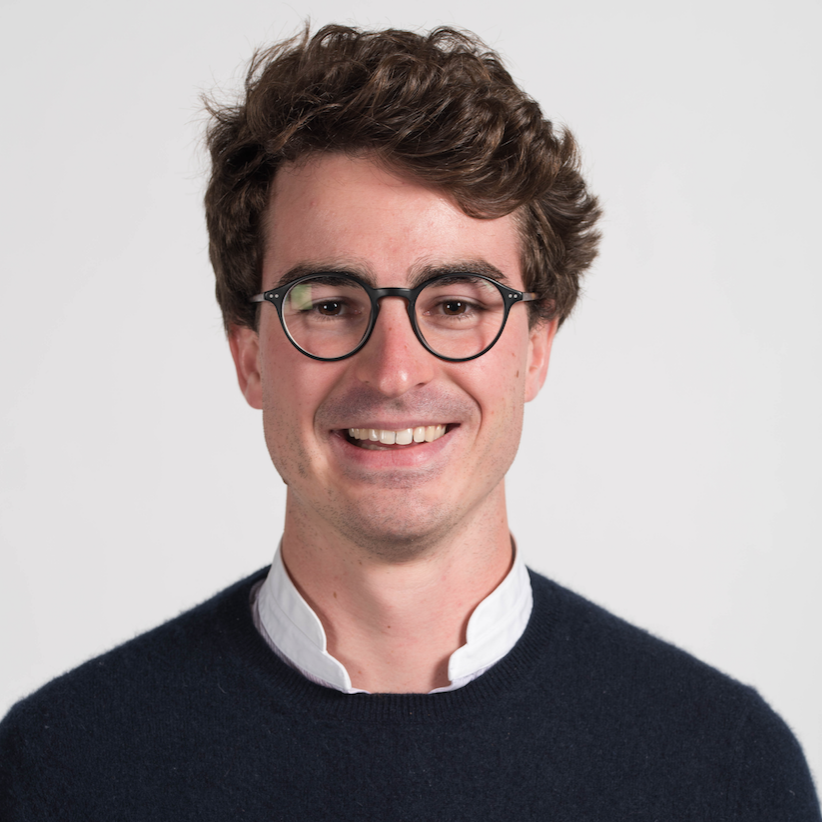
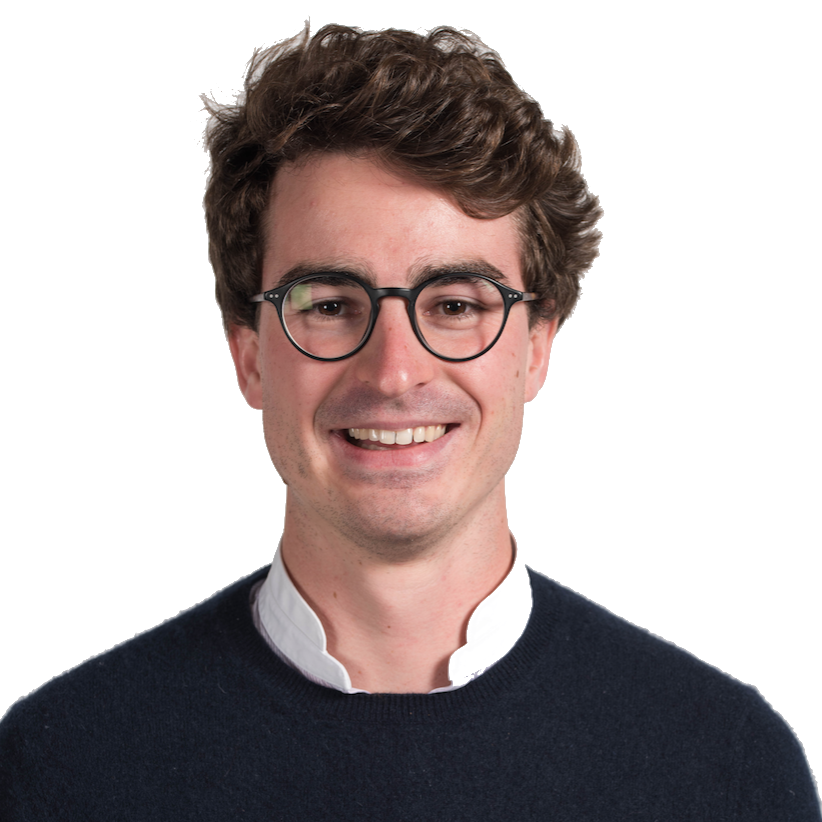
slogan accueil + photos équipe

diff --git a/l-equipe.html b/l-equipe.html
@@ -145,7 +145,7 @@
     <div class="container text-center">
       <div class="row">
         <div class="col-sm-6">
-          <img class="team" src="images/content/team/martin_menez_2.png" alt="Martin Menez" width="200">
+          <img class="team" src="images/content/team/martin_menez.png" alt="Martin Menez" width="200">
         <div class="small-spacer"></div>
           <a href="https://www.linkedin.com/in/martinmenez"><i class="fa fa-linkedin" aria-hidden="true"></i> Martin Menez</a>
         <div class="small-spacer"></div>
@@ -160,7 +160,7 @@
         <div class="small-spacer"></div>
         </div>
         <div class="col-sm-6">
-          <img class="team" src="images/content/team/marion_albertini_2.png" alt="Marion Albertini" width="200">
+          <img class="team" src="images/content/team/marion_albertini.png" alt="Marion Albertini" width="200">
         <div class="small-spacer"></div>
           <a href="https://www.linkedin.com/in/albertinimarion"><i class="fa fa-linkedin" aria-hidden="true"></i> Marion Albertini</a>
         <div class="small-spacer"></div>

diff --git a/index.html b/index.html
@@ -98,7 +98,7 @@
     <div id="titles">
       <img src="images/logo_bevouac/logo_bevouac_22313f.png" alt="Logo Bevouac" width="300">
       <h1>
-      L'AMI SUR QUI COMPTER POUR VOTRE ACHAT IMMOBILIER
+      Qui a dit qu'acheter un bien immobilier était impossible ?
       </h1>
       <h2>
       Testez gratuitement :
@@ -154,7 +154,7 @@
     <div id="content">
       <div id="concept-titles" class="text-center">
         <h3>
-          LE CONCEPT
+          Votre meilleur ami pour vous conseiller dans votre achat
         </h3>
         <h4>
           Une application afin de réaliser un achat immobilier plus éclairé
